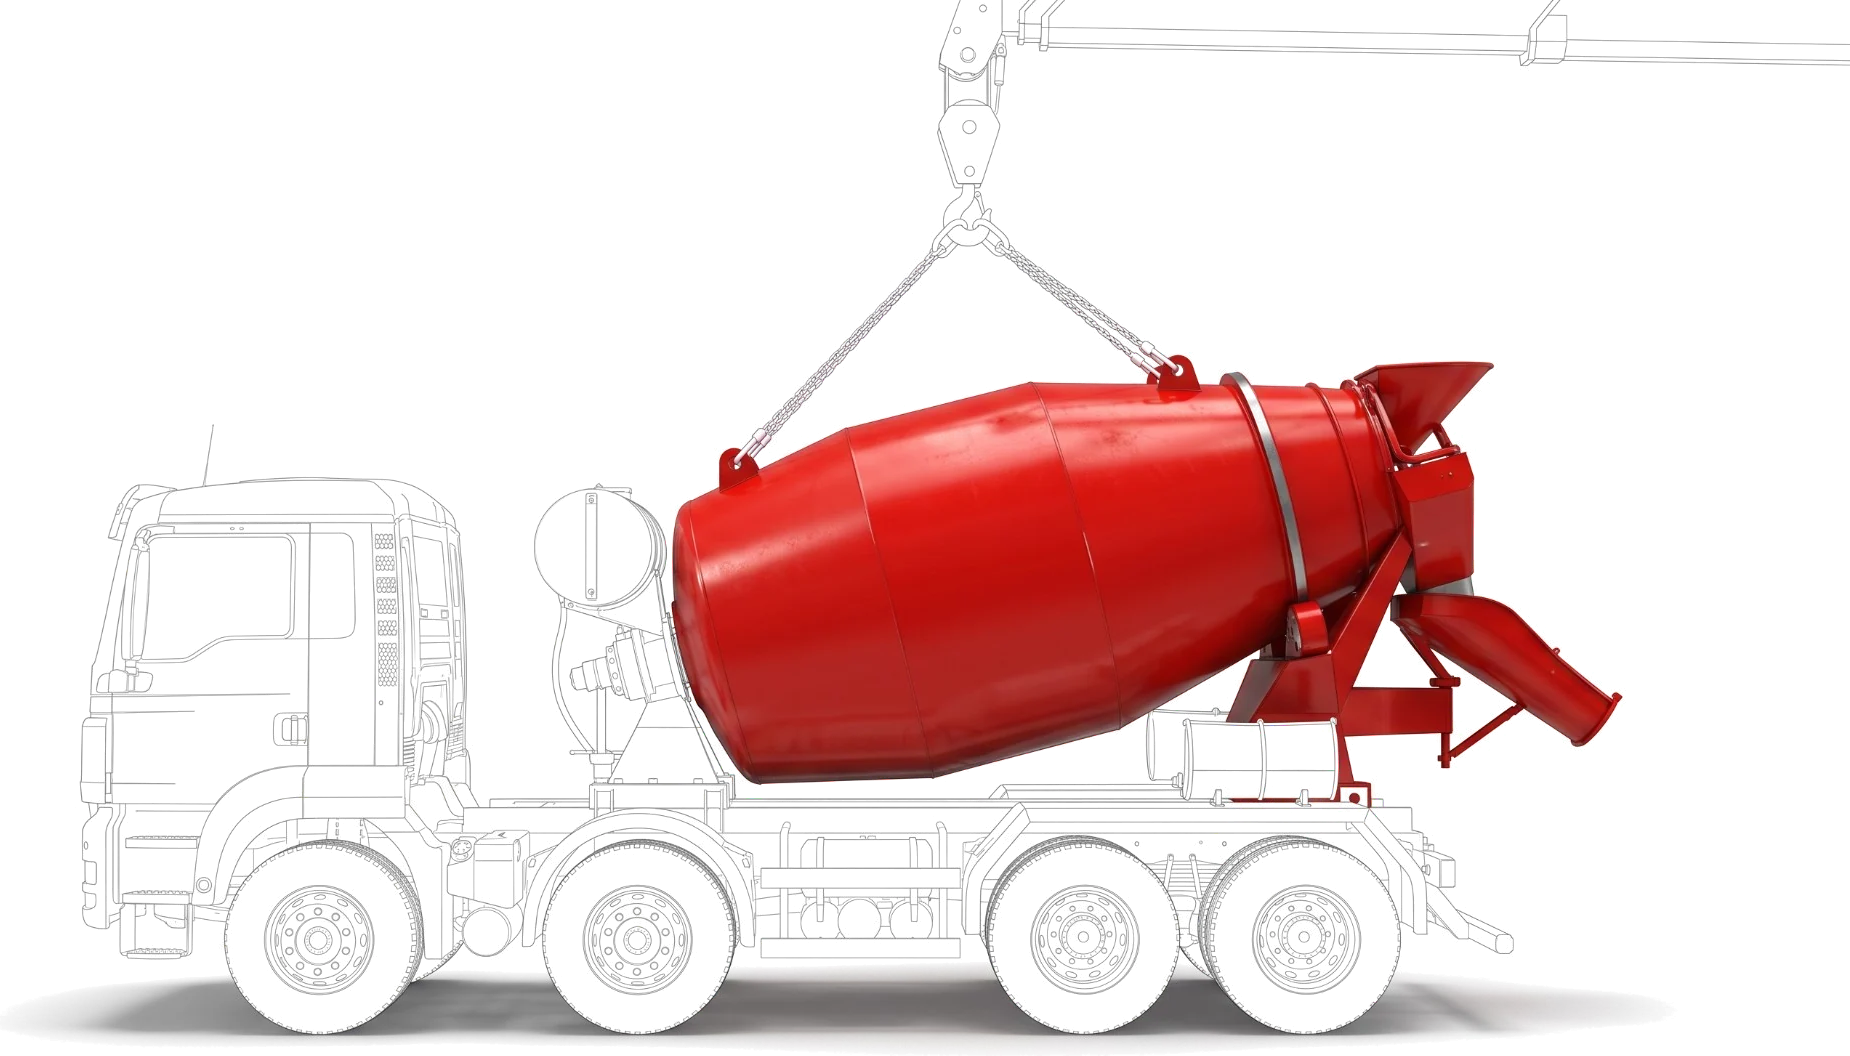
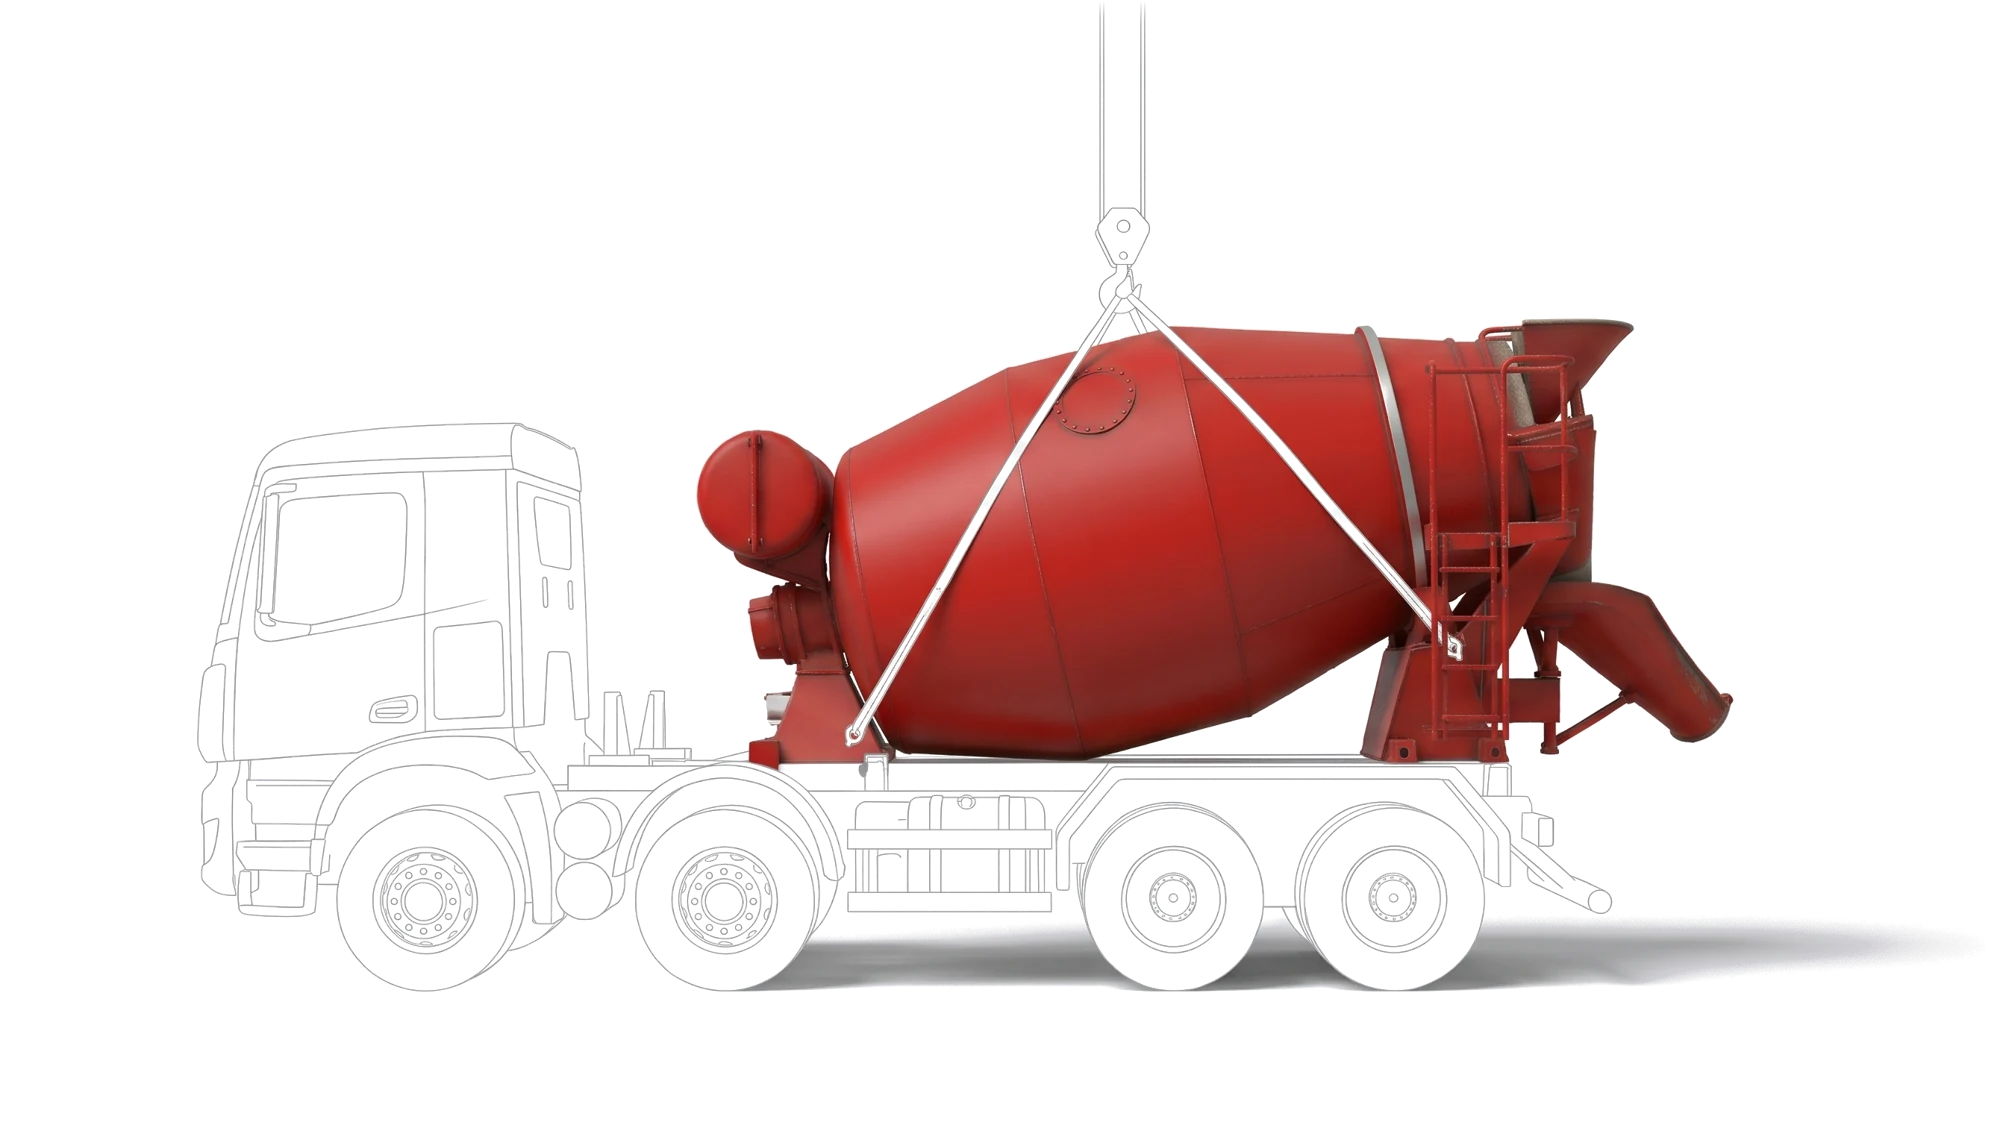
Website: neue Titelbilder und Bühnenbilder, drei Situationskarten als freigestellte Bilder
Titel: Fahrzeugtechnik, Trommeltausch, Verschleissteile, Krantechnik, Kranservice,
Heukrananlagen, Karriere, Über uns, Kontakt, Ratgeber; Bühne: Krane, Fahrzeuge,
Baumaschinen; Karten Krane nach Mass: Kurve, Steigung, eng (karten/*.webp, gelesen
über lib/illustrations). Alt-Texte an die neuen Bilder angepasst, in allen Sprachen.
Bleiben vorerst: Krane nach Mass (Titel), Häfen, Versatz.

Claude-Session: https://claude.ai/code/session_01GJeei3ptvAkbfZWk6KZmvU

Changed region(s): [[0.0308, 0.0, 0.9551, 1.0], [0.7395, 0.0312, 1.0, 0.0625], [0.2157, 0.375, 0.2773, 0.4688]]

diff --git a/website/src/content/krantechnik.ts b/website/src/content/krantechnik.ts
@@ -139,10 +139,10 @@ export const craneSituations = t('krantechnik', {
   title: 'Wo ein Katalogkran nicht passt.',
   lead: 'Vier Situationen, die wir oft sehen – und wie der Kran trotzdem passt.',
   items: [
-    { photo: 'kran-kurve', illo: 'kran-kurve', label: 'Kurve', title: 'Um die Ecke', alt: 'Zeichnung von oben: Halle in L-Form, die rote Fahrbahn biegt um die Ecke', text: 'Die Fahrbahn muss abbiegen. Wir bauen sie als Kurve, mit einem Fahrwerk, das ihr folgt.' },
-    { photo: 'kran-steigung', illo: 'kran-steigung', label: 'Steigung', title: 'Über eine Steigung', alt: 'Zeichnung im Schnitt: Decke mit Absatz, die rote Fahrbahn steigt weich mit an', text: 'Die Decke hat einen Absatz. Die Fahrbahn steigt weich mit an – Antrieb und Bremse sind dafür ausgelegt.' },
+    { photo: 'kran-kurve', illo: 'karten/kran-kurve', label: 'Kurve', title: 'Um die Ecke', alt: 'Zeichnung von oben: Halle in L-Form, die rote Fahrbahn biegt um die Ecke', text: 'Die Fahrbahn muss abbiegen. Wir bauen sie als Kurve, mit einem Fahrwerk, das ihr folgt.' },
+    { photo: 'kran-steigung', illo: 'karten/kran-steigung', label: 'Steigung', title: 'Über eine Steigung', alt: 'Zeichnung im Schnitt: Decke mit Absatz, die rote Fahrbahn steigt weich mit an', text: 'Die Decke hat einen Absatz. Die Fahrbahn steigt weich mit an – Antrieb und Bremse sind dafür ausgelegt.' },
     { photo: 'kran-versatz', illo: 'kran-versatz', label: 'Versatz', title: 'Decke mit Versatz', alt: 'Zeichnung im Schnitt: Decke springt in der Höhe, die rote Fahrbahn hängt gerade darunter', text: 'Die Höhe springt, Balken oder Unterzüge stören. Wir hängen die Fahrbahn so ab, dass die Hubhöhe nutzbar bleibt.' },
-    { photo: 'kran-eng', illo: 'kran-eng', label: 'Wenig Platz', title: 'Eng und verwinkelt', alt: 'Zeichnung von oben: Raum mit Stützen und Nische, der rote Kran erreicht die Ecke', text: 'Stützen, Nischen, wenig Platz: Ein kompakter Kran mit passendem Greifer erreicht auch die letzte Ecke.' },
+    { photo: 'kran-eng', illo: 'karten/kran-eng', label: 'Wenig Platz', title: 'Eng und verwinkelt', alt: 'Zeichnung: enger Raum zwischen Wänden und Stützen, der rote Kran mit Greifer passt genau hinein', text: 'Stützen, Nischen, wenig Platz: Ein kompakter Kran mit passendem Greifer erreicht auch die letzte Ecke.' },
   ],
   missing: { title: 'Ihre Situation ist nicht dabei?', text: 'Fragen Sie trotzdem. Schicken Sie uns ein paar Fotos, wir sagen Ihnen ehrlich, ob es geht.', cta: anfrage('Fotos schicken') },
 });

diff --git a/website/src/lib/illustrations.ts b/website/src/lib/illustrations.ts
@@ -1,12 +1,14 @@
 /**
- * Die Zeichnungen (src/assets/illustrations/**\/*.svg) nach Schlüssel – EINE Stelle für Fragen,
- * Karten und alles, was eine Zeichnung beim Namen nennt («spezial-krane», «menu/trommeltausch»).
- * Ein unbekannter Schlüssel bricht den Build ab, statt still ein leeres Bild zu zeigen.
+ * Die Zeichnungen (src/assets/illustrations/**\/*.svg, dazu die freigestellten Bilder der Karten
+ * karten/*.webp) nach Schlüssel – EINE Stelle für Fragen, Karten und alles, was eine Zeichnung
+ * beim Namen nennt («spezial-krane», «menu/trommeltausch», «karten/kran-kurve»). Ein unbekannter Schlüssel bricht den Build ab, statt still
+ * ein leeres Bild zu zeigen; gibt es einen Schlüssel in beiden Formen, bricht er ebenso ab.
  */
-const illos = import.meta.glob<string>('../assets/illustrations/**/*.svg', { eager: true, query: '?url', import: 'default' });
+const illos = import.meta.glob<string>(['../assets/illustrations/**/*.svg', '../assets/illustrations/karten/*.webp'], { eager: true, query: '?url', import: 'default' });
 
 export const illustration = (key: string, who = 'Zeichnung'): string => {
-  const url = illos[`../assets/illustrations/${key}.svg`];
-  if (!url) throw new Error(`${who}: Zeichnung «${key}» fehlt in src/assets/illustrations/.`);
-  return url;
+  const found = ['svg', 'webp'].map((ext) => illos[`../assets/illustrations/${key}.${ext}`]).filter(Boolean);
+  if (found.length === 0) throw new Error(`${who}: Zeichnung «${key}» fehlt in src/assets/illustrations/.`);
+  if (found.length > 1) throw new Error(`${who}: Zeichnung «${key}» gibt es als .svg und als .webp – eine genügt.`);
+  return found[0];
 };
